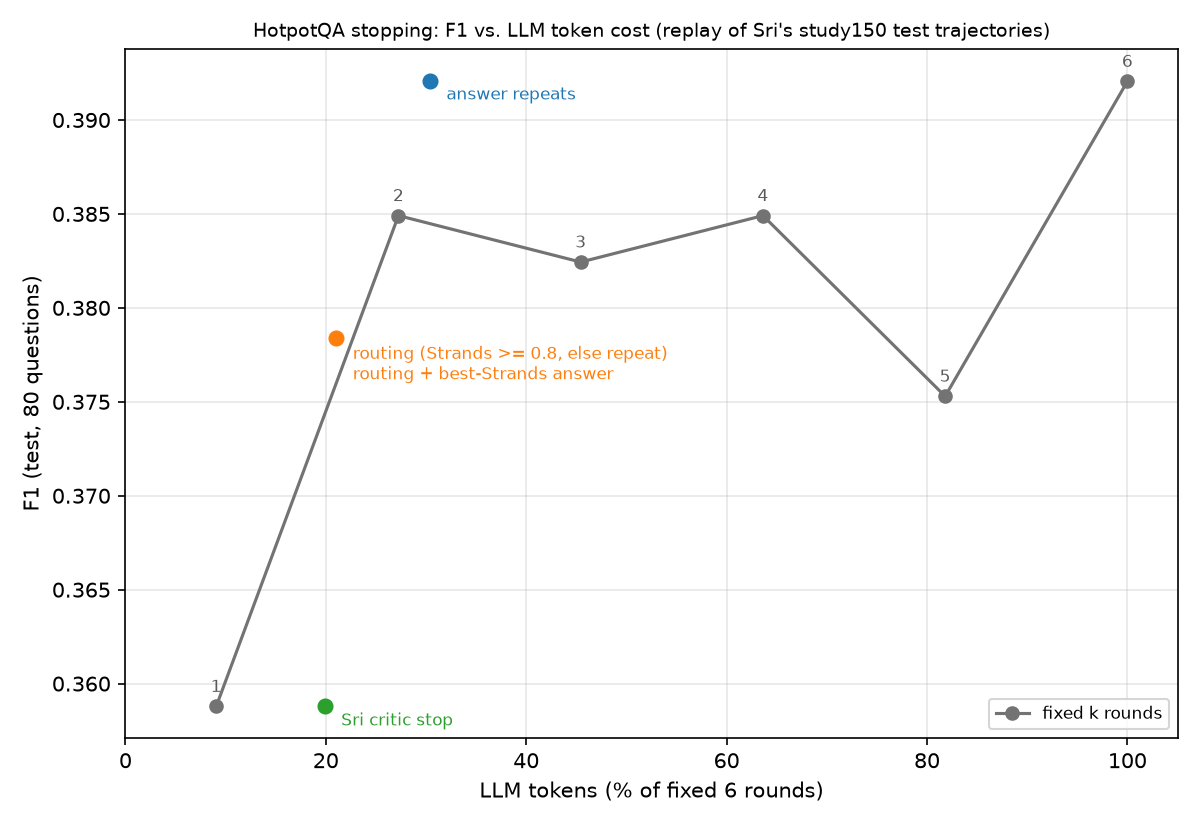
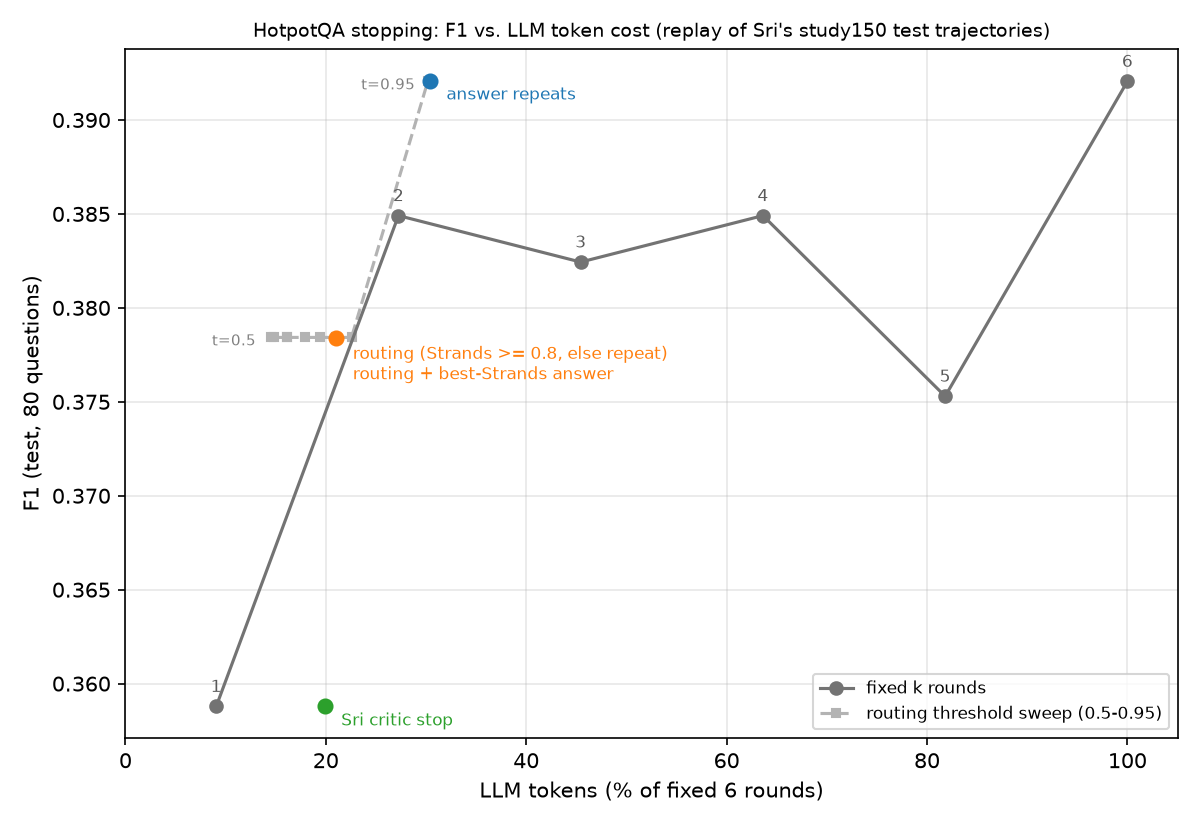
Add stopping headroom analysis
eval/headroom.py: oracle stopping and each method's share of the possible
F1 gain, a routing threshold sweep (picked on train+dev at <= 30% tokens,
reported on test), help vs. hurt counts per round transition, and the
untuned rules on all 150 questions with bootstrap CIs. compare_all.py now
draws the test sweep curve on f1_vs_tokens.png; routing's threshold is a
parameter in answer_selection.py (outputs unchanged).

Changed region(s): [[0.6783, 0.8182, 0.9867, 0.8788], [0.185, 0.3939, 0.3083, 0.4242], [0.3083, 0.0909, 0.3392, 0.1212]]

diff --git a/eval/headroom.py b/eval/headroom.py
@@ -1,0 +1,193 @@
+"""Headroom for stopping on Sri's saved trajectories: oracle, threshold sweep, help vs. hurt, all 150.
+
+    python3 eval/headroom.py
+
+Reads data/sri_rounds_with_strands.csv. No model calls. Same replay, token accounting and paired
+bootstrap (10,000 resamples, seed 0) as eval/answer_selection.py; tokens are % of fixed 6 rounds
+computed on the same set of questions.
+
+1. Oracle stopping (uses gold answers; upper bound only): stop at the earliest round that reaches
+   the question's best F1 over rounds 1-6. For each method in eval/results_table.csv, the share of
+   the possible gain it recovers: (F1 - fixed 1 F1) / (oracle F1 - fixed 1 F1), test split.
+2. Routing threshold sweep (Strands >= t, else revise until the answer repeats) for t = 0.50-0.95.
+   The threshold is picked on train+dev only (best F1 with tokens <= 30%; ties: fewer tokens),
+   then reported on test. The test curve is also drawn by eval/compare_all.py.
+3. Help vs. hurt: for each round transition k -> k+1, questions whose F1 went up, down or stayed
+   the same, on all 150 questions and on test.
+4. The rules with nothing tuned (fixed 1-6, answer repeats, routing at 0.8, Sri's critic stop)
+   on all 150 questions. train and dev are included, but none of these rules was fit to them.
+
+Writes eval/headroom.csv (one row per result; `section` says which part) and eval/help_hurt.csv.
+"""
+import csv
+from pathlib import Path
+
+import answer_selection as sel
+
+HERE = Path(__file__).resolve().parent
+RESULTS_TABLE = HERE / "results_table.csv"
+OUT = HERE / "headroom.csv"
+HELP_HURT = HERE / "help_hurt.csv"
+THRESHOLDS = [round(0.5 + 0.05 * i, 2) for i in range(10)]
+MAX_TOKENS_PCT = 30
+
+
+def oracle_stop(R):
+    best = max(r["f1"] for r in R)
+    return next(k for k in range(1, len(R) + 1) if R[k - 1]["f1"] == best)
+
+
+def load(*splits):
+    traj = {}
+    for split in splits:
+        traj.update(sel.load(split))
+    return traj
+
+
+def no_tuning(traj):
+    """label -> per-question results for the rules with no fitted parameters."""
+    methods = {f"fixed {k}": sel.replay(traj, *sel.RULES[f"fixed{k}"]) for k in range(1, 7)}
+    methods["answer repeats"] = sel.replay(traj, *sel.RULES["answer_repeats"])
+    methods[f"routing @ {sel.T_HI}"] = sel.replay(traj, *sel.RULES["routing"])
+    methods["Sri critic stop"] = sel.replay(traj, sel.sri_critic, True, False)
+    return methods
+
+
+def sweep(traj):
+    """Routing at each threshold: {threshold: per-question results}."""
+    return {t: sel.replay(traj, sel.routing_at(t), False, True) for t in THRESHOLDS}
+
+
+def pick(curve, full):
+    """Best F1 with tokens <= MAX_TOKENS_PCT; ties go to fewer tokens."""
+    ok = {t: sel.summary(res, full) for t, res in curve.items()}
+    ok = {t: s for t, s in ok.items() if s["tokens_pct"] <= MAX_TOKENS_PCT}
+    if not ok:
+        raise SystemExit(f"no threshold stays within {MAX_TOKENS_PCT}% tokens")
+    return max(ok, key=lambda t: (ok[t]["f1"], -ok[t]["tokens_pct"]))
+
+
+def row(section, split, method, res, full, **extra):
+    s = sel.summary(res, full)
+    lo, hi = sel.boot_ci([r["f1"] for r in res])
+    return {"section": section, "split": split, "method": method, "questions": s["questions"], "f1": s["f1"],
+            "em": s["em"], "tokens_pct": s["tokens_pct"], "avg_rounds": s["avg_rounds"],
+            "f1_ci_low": lo, "f1_ci_high": hi, **extra}
+
+
+def help_hurt(traj, split):
+    out = []
+    for k in range(1, 6):
+        d = [R[k]["f1"] - R[k - 1]["f1"] for R in traj.values()]
+        changed = sum(not sel.same_answer(R[k], R[k - 1]) for R in traj.values())
+        out.append({"split": split, "transition": f"{k}->{k + 1}", "questions": len(d),
+                    "f1_up": sum(x > 0 for x in d), "f1_down": sum(x < 0 for x in d), "f1_same": sum(x == 0 for x in d),
+                    "answer_text_changed": changed, "mean_f1_change": sel.mean(d)})
+    return out
+
+
+def fmt(x, spec):
+    return format(x, spec) if isinstance(x, float) else str(x)
+
+
+def main():
+    test, tune, every = sel.load("test"), load("train", "dev"), load("train", "dev", "test")
+    full_test, full_tune, full_all = sel.full_tokens(test), sel.full_tokens(tune), sel.full_tokens(every)
+    rows = []
+
+    # 1. Oracle stopping and share of the possible gain.
+    oracle = sel.replay(test, oracle_stop, False, False)
+    fixed1 = sel.summary(sel.replay(test, *sel.RULES["fixed1"]), full_test)["f1"]
+    o = row("oracle", "test", "oracle stop (earliest best-F1 round)", oracle, full_test, gain_share=1.0)
+    rows.append(o)
+    gain = o["f1"] - fixed1
+    with RESULTS_TABLE.open(newline="", encoding="utf-8") as f:
+        table = list(csv.DictReader(f))
+    gains = []
+    for r in table:
+        done = r["status"] == "done"
+        gains.append({"section": "gain_share", "split": "test", "method": r["method"],
+                      "f1": float(r["f1"]) if done else "pending",
+                      "tokens_pct": float(r["tokens_pct"]) if done else "pending",
+                      "gain_share": (float(r["f1"]) - fixed1) / gain if done else "pending"})
+    rows += gains
+
+    # 2. Threshold sweep: pick on train+dev, report on test.
+    tune_curve, test_curve = sweep(tune), sweep(test)
+    chosen = pick(tune_curve, full_tune)
+    for split, curve, full in (("train+dev", tune_curve, full_tune), ("test", test_curve, full_test)):
+        for t, res in curve.items():
+            rows.append(row("sweep", split, f"routing @ {t}", res, full, threshold=t,
+                            note="chosen on train+dev" if t == chosen else ""))
+    fixed_test = {k: sel.replay(test, *sel.RULES[f"fixed{k}"]) for k in range(1, 7)}
+    fixed_pct = {k: sel.summary(res, full_test)["tokens_pct"] for k, res in fixed_test.items()}
+    picked = test_curve[chosen]
+    p = row("chosen_threshold", "test", f"routing @ {chosen} (chosen on train+dev)", picked, full_test,
+            threshold=chosen, gain_share=(sel.mean([r["f1"] for r in picked]) - fixed1) / gain)
+    k = min(fixed_pct, key=lambda k: abs(fixed_pct[k] - p["tokens_pct"]))
+    d, lo, hi = sel.paired(picked, fixed_test[k])
+    d8, lo8, hi8 = sel.paired(picked, test_curve[sel.T_HI])
+    p.update(nearest_fixed=f"fixed {k}", f1_diff_vs_nearest_fixed=d, diff_ci_low=lo, diff_ci_high=hi,
+             note=f"vs routing @ {sel.T_HI}: {d8:+.3f} [{lo8:+.3f}, {hi8:+.3f}]")
+    rows.append(p)
+
+    # 4. No-tuning rules on all 150 questions.
+    for name, res in no_tuning(every).items():
+        rows.append(row("all150", "all", name, res, full_all))
+
+    # 3. Help vs. hurt per round transition.
+    hh = help_hurt(every, "all") + help_hurt(test, "test")
+
+    cols = ["section", "split", "method", "threshold", "questions", "f1", "em", "tokens_pct", "avg_rounds",
+            "f1_ci_low", "f1_ci_high", "gain_share", "nearest_fixed", "f1_diff_vs_nearest_fixed",
+            "diff_ci_low", "diff_ci_high", "note"]
+    with OUT.open("w", newline="", encoding="utf-8") as f:
+        w = csv.DictWriter(f, cols)
+        w.writeheader()
+        for r in rows:
+            w.writerow({c: round(v, 4) if isinstance(v, float) else v for c, v in r.items()})
+    with HELP_HURT.open("w", newline="", encoding="utf-8") as f:
+        w = csv.DictWriter(f, list(hh[0]))
+        w.writeheader()
+        for r in hh:
+            w.writerow({c: round(v, 4) if isinstance(v, float) else v for c, v in r.items()})
+
+    # Print.
+    print(f"1. Oracle stopping, test ({len(test)} questions; uses gold answers, upper bound only)")
+    print(f"   F1 {o['f1']:.3f} [{o['f1_ci_low']:.3f}, {o['f1_ci_high']:.3f}]  EM {o['em']:.3f}  "
+          f"tokens {o['tokens_pct']:.0f}%  rounds {o['avg_rounds']:.2f}")
+    print(f"   possible gain over fixed 1: {o['f1']:.3f} - {fixed1:.3f} = {gain:+.3f} F1\n")
+    print(f"   {'method':40s} {'F1':>6s} {'tokens':>7s} {'gain recovered':>15s}")
+    for r in gains:
+        print(f"   {r['method']:40s} {fmt(r['f1'], '6.3f'):>6s} "
+              f"{fmt(r['tokens_pct'], '6.0f') + ('%' if r['tokens_pct'] != 'pending' else ''):>7s} "
+              f"{fmt(r['gain_share'], '14.0%'):>15s}")
+
+    print(f"\n2. Routing threshold sweep (tokens <= {MAX_TOKENS_PCT}% on train+dev, best F1)")
+    print(f"   {'threshold':>9s} | {'train+dev F1':>12s} {'tokens':>7s} | {'test F1':>7s} {'tokens':>7s} {'rounds':>6s}")
+    for t in THRESHOLDS:
+        a, b = sel.summary(tune_curve[t], full_tune), sel.summary(test_curve[t], full_test)
+        mark = "  <- chosen" if t == chosen else ""
+        print(f"   {t:9.2f} | {a['f1']:12.3f} {a['tokens_pct']:6.1f}% | {b['f1']:7.3f} {b['tokens_pct']:6.1f}% "
+              f"{b['avg_rounds']:6.2f}{mark}")
+    print(f"   chosen {chosen} on test: F1 {p['f1']:.3f} [{p['f1_ci_low']:.3f}, {p['f1_ci_high']:.3f}], tokens "
+          f"{p['tokens_pct']:.0f}%, gain recovered {p['gain_share']:.0%}; vs {p['nearest_fixed']} "
+          f"({fixed_pct[k]:.0f}%) {d:+.3f} [{lo:+.3f}, {hi:+.3f}]; {p['note']}")
+
+    print("\n3. Help vs. hurt per round transition (F1 of round k+1 vs. round k)")
+    print(f"   {'split':5s} {'step':5s} {'up':>4s} {'down':>5s} {'same':>5s} {'answer changed':>15s} {'mean F1 change':>15s}")
+    for r in hh:
+        print(f"   {r['split']:5s} {r['transition']:5s} {r['f1_up']:4d} {r['f1_down']:5d} {r['f1_same']:5d} "
+              f"{r['answer_text_changed']:15d} {r['mean_f1_change']:+15.3f}")
+
+    print(f"\n4. Rules with nothing tuned, all {len(every)} questions (tokens % of fixed 6 on all 150)")
+    print(f"   {'method':20s} {'F1':>6s} {'[95% CI]':16s} {'EM':>6s} {'tokens':>7s} {'rounds':>6s}")
+    for r in rows:
+        if r["section"] == "all150":
+            print(f"   {r['method']:20s} {r['f1']:6.3f} [{r['f1_ci_low']:.3f}, {r['f1_ci_high']:.3f}] {r['em']:6.3f} "
+                  f"{r['tokens_pct']:6.0f}% {r['avg_rounds']:6.2f}")
+    print(f"\nwrote {OUT.relative_to(HERE.parent)}, {HELP_HURT.relative_to(HERE.parent)}")
+
+
+if __name__ == "__main__":
+    main()

diff --git a/eval/compare_all.py b/eval/compare_all.py
@@ -19,13 +19,15 @@ bootstrap. A head with no such file is marked "pending".
 
 For each method: F1, EM, tokens (% of fixed 6), avg rounds, F1 95% CI, and the fixed-round
 baseline with the closest token cost with the paired F1 difference and CI.
-Writes eval/results_table.csv and eval/f1_vs_tokens.png.
+Writes eval/results_table.csv and eval/f1_vs_tokens.png. The chart also draws the test curve of
+the routing threshold sweep from eval/headroom.py.
 """
 import csv
 import sys
 from pathlib import Path
 
 import answer_selection as sel
+import headroom
 
 HERE = Path(__file__).resolve().parent
 CLASSIFIER_RESULTS = HERE.parent / "classifier" / "results"
@@ -150,6 +152,14 @@ def plot(rows):
     for r in fixed:
         ax.annotate(r["method"].split()[1], (r["tokens_pct"], r["f1"]), textcoords="offset points", xytext=(0, 7),
                     ha="center", fontsize=8, color="0.35")
+    traj = sel.load()
+    full = sel.full_tokens(traj)
+    curve = [(t, sel.summary(res, full)) for t, res in headroom.sweep(traj).items()]
+    ax.plot([s["tokens_pct"] for _, s in curve], [s["f1"] for _, s in curve], "--s", color="0.7", markersize=3.5,
+            label=f"routing threshold sweep ({headroom.THRESHOLDS[0]}-{headroom.THRESHOLDS[-1]})", zorder=1)
+    for t, s in (curve[0], curve[-1]):
+        ax.annotate(f"t={t}", (s["tokens_pct"], s["f1"]), textcoords="offset points", xytext=(-7, -2),
+                    ha="right", va="center", fontsize=7, color="0.5")
     # Methods that land on the same point share one marker and one label.
     points = {}
     for r in other:

diff --git a/eval/answer_selection.py b/eval/answer_selection.py
@@ -65,12 +65,17 @@ def answer_repeats(R):
     return next((k for k in range(2, len(R) + 1) if same_answer(R[k - 1], R[k - 2])), len(R))
 
 
-def routing(R):
-    """Stop if Strands >= T_HI, else revise until the answer repeats."""
-    for k in range(1, len(R) + 1):
-        if R[k - 1]["strands"] >= T_HI or (k > 1 and same_answer(R[k - 1], R[k - 2])):
-            return k
-    return len(R)
+def routing_at(threshold):
+    """Stop if Strands >= threshold, else revise until the answer repeats."""
+    def rule(R):
+        for k in range(1, len(R) + 1):
+            if R[k - 1]["strands"] >= threshold or (k > 1 and same_answer(R[k - 1], R[k - 2])):
+                return k
+        return len(R)
+    return rule
+
+
+routing = routing_at(T_HI)
 
 
 def sri_critic(R):

diff --git a/eval/README.md b/eval/README.md
@@ -11,7 +11,13 @@ Evaluation that combines the Strands critic (`strands/`) with the stopping class
   1-6 rounds, answer repeats, the routing rule, Sri's critic stop, the best answer-selection variant,
   and Sri's retrained stop heads (pending until `classifier/results/<head>/**/per_question.csv`
   exists), each against its closest-token fixed-round baseline. Writes `results_table.csv` and
-  `f1_vs_tokens.png`.
+  `f1_vs_tokens.png` (which also draws the routing threshold sweep from `headroom.py`).
+- `headroom.py` (`python3 eval/headroom.py`; run after `compare_all.py`, whose table it reads):
+  oracle stopping (earliest best-F1 round; upper bound) and each method's share of the possible
+  gain over fixed 1; the routing threshold sweep (0.50-0.95, picked on train+dev at <= 30% tokens,
+  reported on test); help vs. hurt counts per round transition; and the untuned rules on all
+  150 questions. Writes `headroom.csv` (a `section` column says which part each row is) and
+  `help_hurt.csv`.
 
 Token accounting is shared and documented in `answer_selection.py`: writer tokens every round,
 LLM critic tokens only when the critique is used, Strands calls counted separately, and
